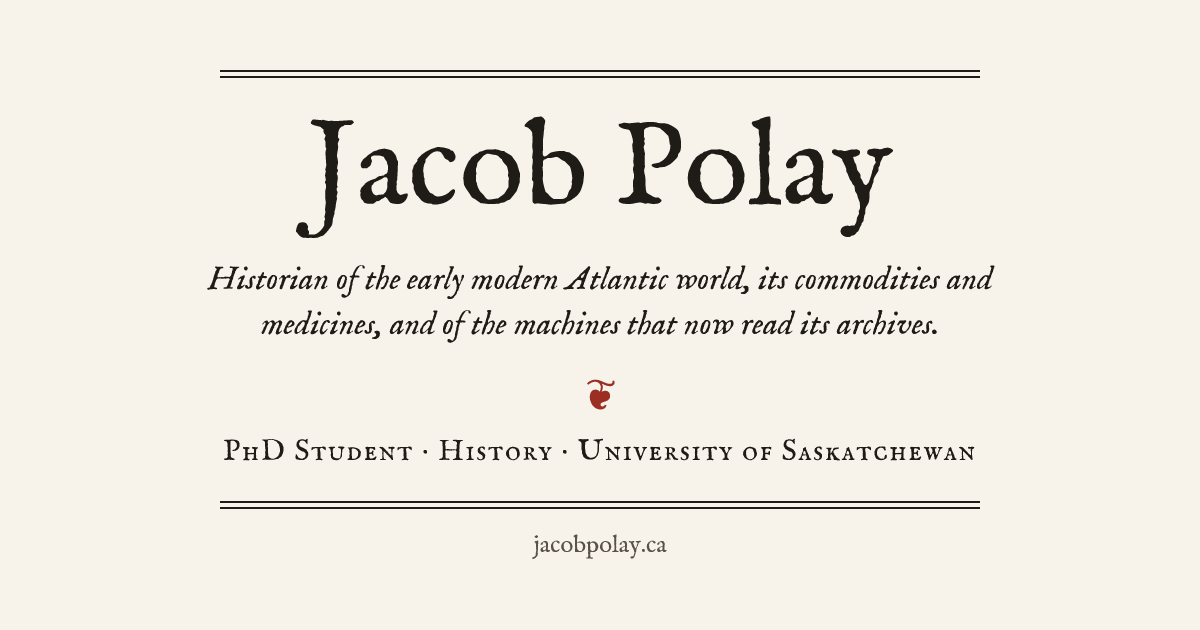
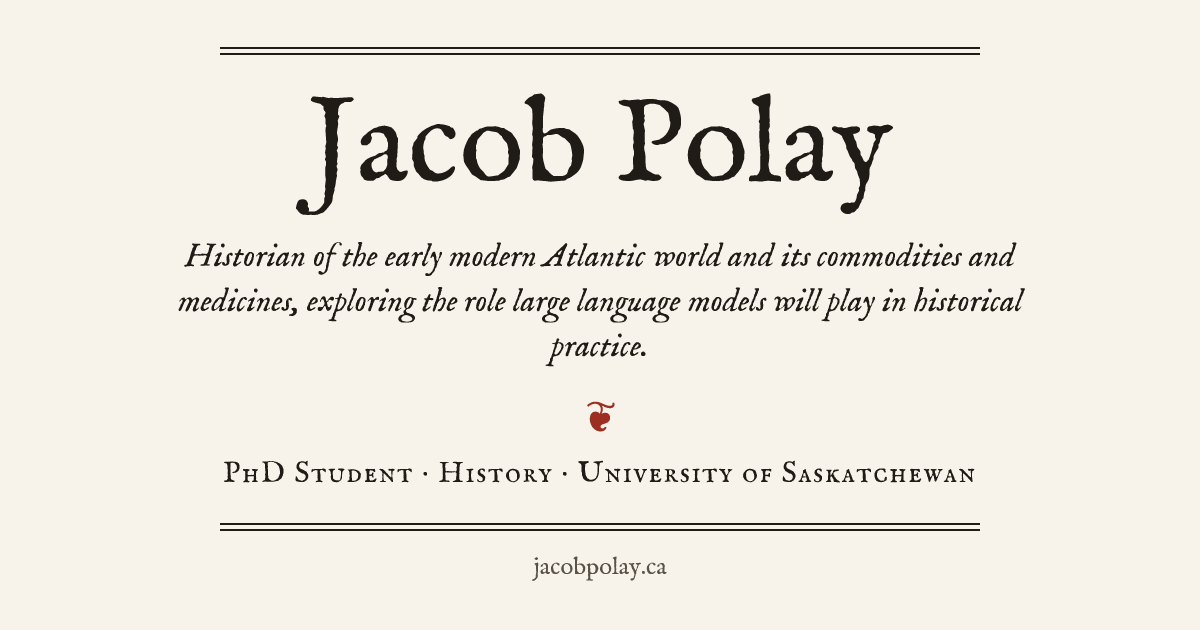
feat: new tagline, every AI and Collaboration post, real project names
- Tagline: Historian of the early modern Atlantic world and its commodities and
  medicines, exploring the role large language models will play in historical
  practice. Share card regenerated.
- The four AI and Collaboration posts (Active History, Sept-Oct 2026) as
  publications with lead and contributing authors; Writing and CV split
  publications from public scholarship; project pages list their posts;
  citations link their URL; BlogPosting structured data.
- Projects use their actual names: EarlyModernNER; Reading the Archive by
  Machine: An OCR Benchmark for Historians, 1612-1921; AI and Collaboration.
- Graph: a paper that is a project merges into the project node, and posts
  don't repeat edges to people their project already lists.

Changed region(s): [[0.1542, 0.0603, 0.8633, 0.573], [0.185, 0.6032, 0.8325, 0.9349]]

diff --git a/src/lib/graph.ts b/src/lib/graph.ts
@@ -15,7 +15,9 @@ const kebab = (s: string) =>
 
 /**
  * Turns the site's content into a graph of items (projects, publications, talks),
- * the people they share and the methods used by two or more projects.
+ * the people they share and the methods used by two or more projects. A publication with
+ * the same title as a project (a project that *is* a paper) is merged into the project's node, and
+ * an item related to a project doesn't get its own edge to people that project already lists.
  * Throws when a `related` id names an item that doesn't exist.
  */
 export function buildGraph(input: GraphInput, self = 'Jacob Polay'): Graph {
@@ -34,6 +36,17 @@ export function buildGraph(input: GraphInput, self = 'Jacob Polay'): Graph {
     })),
   ];
   const itemIds = new Set(items.map((i) => i.id));
+  const projectByTitle = new Map(input.projects.map((p) => [p.title, `project:${p.slug}`]));
+  const alias = new Map<string, string>();
+  for (const p of input.publications) {
+    const project = projectByTitle.get(p.title);
+    if (project) alias.set(`publication:${p.slug}`, project);
+  }
+  const resolve = (id: string) => alias.get(id) ?? id;
+  // People a project already lists don't also get an edge to each item related to that project.
+  const projectPeople = new Map(input.projects.map((p) => [`project:${p.slug}`, new Set(p.collaborators)]));
+  const carriedByProject = (related: string[], name: string) =>
+    related.some((r) => projectPeople.get(resolve(r))?.has(name));
 
   const edges = new Map<string, GraphEdge>();
   const connect = (a: string, b: string) => {
@@ -45,21 +58,23 @@ export function buildGraph(input: GraphInput, self = 'Jacob Polay'): Graph {
   const people = new Map<string, string>();
   const methodUse = new Map<string, { label: string; items: string[] }>();
   for (const item of items) {
+    const itemId = resolve(item.id);
     for (const name of item.people) {
       if (name === self) continue;
+      if (item.kind !== 'project' && carriedByProject(item.related, name)) continue;
       const id = `person:${kebab(name)}`;
       people.set(id, name);
-      connect(item.id, id);
+      connect(itemId, id);
     }
     for (const m of item.methods) {
       const id = `method:${kebab(m)}`;
       const use = methodUse.get(id) ?? { label: m, items: [] };
-      use.items.push(item.id);
+      use.items.push(itemId);
       methodUse.set(id, use);
     }
     for (const rel of item.related) {
       if (!itemIds.has(rel)) throw new Error(`Unknown related id "${rel}" in ${item.id}`);
-      connect(item.id, rel);
+      connect(itemId, resolve(rel));
     }
   }
 
@@ -71,7 +86,7 @@ export function buildGraph(input: GraphInput, self = 'Jacob Polay'): Graph {
   }
 
   const nodes: GraphNode[] = [
-    ...items.map(({ id, label, kind, href }) => ({ id, label, kind, href })),
+    ...items.filter((i) => !alias.has(i.id)).map(({ id, label, kind, href }) => ({ id, label, kind, href })),
     ...[...people].sort(([a], [b]) => a.localeCompare(b)).map(([id, label]) => ({ id, label, kind: 'person' as const })),
     ...methodNodes,
   ];
@@ -89,10 +104,10 @@ export function layoutGraph(
   const nodes: SimNode[] = g.nodes.map((n) => ({ ...n }));
   const links = g.edges.map((e) => ({ ...e }));
   forceSimulation(nodes)
-    .force('link', forceLink<SimNode, (typeof links)[number]>(links).id((n) => n.id).distance(100))
-    .force('charge', forceManyBody().strength(-260))
+    .force('link', forceLink<SimNode, (typeof links)[number]>(links).id((n) => n.id).distance(115))
+    .force('charge', forceManyBody().strength(-340))
     .force('center', forceCenter(width / 2, height / 2))
-    .force('collide', forceCollide(40))
+    .force('collide', forceCollide(52))
     .force('x', forceX(width / 2).strength(0.08))
     .force('y', forceY(height / 2).strength(0.12))
     .stop()

diff --git a/tests/unit/graph.test.ts b/tests/unit/graph.test.ts
@@ -21,7 +21,7 @@ describe('buildGraph', () => {
     const jims = g.nodes.filter((n) => n.id === 'person:jim-clifford');
     expect(jims).toHaveLength(1);
     const jimEdges = g.edges.filter((e) => e.source === 'person:jim-clifford' || e.target === 'person:jim-clifford');
-    expect(jimEdges).toHaveLength(4); // two projects, one publication, one talk
+    expect(jimEdges).toHaveLength(2); // the two projects; the paper and talk relate to a project that already lists him
   });
 
   it('excludes self', () => {
@@ -96,4 +96,37 @@ describe('wrapLabel', () => {
     expect(lines.join(' ')).not.toContain('…');
     expect('AI and Collaboration (Active History) and a very long tail of extra words'.startsWith(lines.join(' '))).toBe(true);
   });
+});
+
+describe('buildGraph merges a publication into the project of the same name', () => {
+  const g = buildGraph({
+    projects: [{ slug: 'ocr-benchmark', title: 'Reading the Archive by Machine', collaborators: ['Jim Clifford'], methods: [], related: [] }],
+    publications: [{ slug: 'reading', title: 'Reading the Archive by Machine', authors: ['Jim Clifford', 'Mark Humphries'], related: ['project:ocr-benchmark'] }],
+    talks: [{ slug: 't', title: 'Talk', presenters: [], related: ['publication:reading'] }],
+  });
+  it('keeps one node for the shared name', () =>
+    expect(g.nodes.filter((n) => n.label === 'Reading the Archive by Machine').map((n) => n.id)).toEqual(['project:ocr-benchmark']));
+  it('moves the publication edges onto the project', () => {
+    const keys = g.edges.map((e) => [e.source, e.target].sort().join(' '));
+    expect(keys).toContain('person:mark-humphries project:ocr-benchmark');
+    expect(keys).toContain('project:ocr-benchmark talk:t');
+    expect(keys.some((k) => k.includes('publication:reading'))).toBe(false);
+  });
+});
+
+describe('buildGraph skips person edges a related project already carries', () => {
+  const g = buildGraph({
+    projects: [{ slug: 'series', title: 'Series', collaborators: ['Chloë Farr', 'Jessica Jack'], methods: [], related: [] }],
+    publications: [
+      { slug: 'post', title: 'Post', authors: ['Chloë Farr', 'Jessica Jack', 'Sara Wilmshurst'], related: ['project:series'] },
+    ],
+    talks: [],
+  });
+  const keys = g.edges.map((e) => [e.source, e.target].sort().join(' '));
+  it('links the post to its project', () => expect(keys).toContain('project:series publication:post'));
+  it('does not link the post to people the project already lists', () => {
+    expect(keys).not.toContain('person:chloe-farr publication:post');
+    expect(keys).not.toContain('person:jessica-jack publication:post');
+  });
+  it('still links people the project does not list', () => expect(keys).toContain('person:sara-wilmshurst publication:post'));
 });

diff --git a/tests/e2e/writing.spec.ts b/tests/e2e/writing.spec.ts
@@ -6,19 +6,35 @@ const GARBLER = 'Polay, Jacob. "Circumventing the Garbler." Intersections 8, no.
 test('sections', async ({ page }) => {
   await page.goto('/writing');
   const pubs = page.locator('#publications li.entry');
-  await expect(pubs).toHaveCount(3);
   expect(await pubs.evaluateAll((els) => els.map((e) => e.id))).toEqual([
-    'archive-is-not-a-toy',
     'reading-the-archive-by-machine',
     'circumventing-the-garbler',
   ]);
+  const posts = page.locator('#public-scholarship li.entry');
+  expect(await posts.evaluateAll((els) => els.map((e) => e.id))).toEqual([
+    'not-just-farming',
+    'can-you-read-two-million-pages',
+    'stop-choosing-tools',
+    'ai-enabled-boom-in-document-transcription',
+    'archive-is-not-a-toy',
+  ]);
   await expect(page.locator('#public-scholarship')).toContainText('AI and Collaboration');
+  await expect(posts.locator('details.cite')).toHaveCount(5);
   const talks = page.locator('#talks li.entry');
   expect(await talks.evaluateAll((els) => els.map((e) => e.id))).toEqual([
     'fitting-machine-to-page',
     'reading-the-unreadable',
     'solving-ocr',
   ]);
+});
+
+test('series posts credit lead and contributing authors', async ({ page }) => {
+  await page.goto('/writing');
+  await expect(page.locator('#stop-choosing-tools .citation')).toContainText(
+    'Polay, Jacob, Chloë Farr, and Jessica Jack. "Stop Choosing Tools. Start Building Them." Active History, September 30, 2026.',
+  );
+  await expect(page.locator('#not-just-farming .citation')).toContainText('Jack, Jessica, Chloë Farr, and Jacob Polay.');
+  await expect(page.locator('#ai-enabled-boom-in-document-transcription a[href="https://activehistory.ca/blog/2026/09/23/ai-enabled-document-transcription/"]')).toHaveCount(1);
 });
 
 test.describe('without javascript', () => {

diff --git a/tests/e2e/meta.spec.ts b/tests/e2e/meta.spec.ts
@@ -40,21 +40,21 @@ test('json-ld person', async ({ page }) => {
   );
 });
 
-test('json-ld articles', async ({ page }) => {
+test('json-ld articles and posts', async ({ page }) => {
   await page.goto('/writing');
-  const articles = (await jsonLd(page)).filter((d) => d['@type'] === 'ScholarlyArticle');
-  expect(articles.map((a) => a.headline).sort()).toEqual([
+  const ld = await jsonLd(page);
+  expect(ld.filter((d) => d['@type'] === 'ScholarlyArticle').map((a) => a.headline).sort()).toEqual([
     'Circumventing the Garbler',
     'Reading the Archive by Machine: An OCR Benchmark for Historians, 1612–1921',
-    'The Archive is Not a Toy: The Hidden Problems of a "Vintage" AI',
   ]);
+  expect(ld.filter((d) => d['@type'] === 'BlogPosting')).toHaveLength(5);
 });
 
 test('feeds', async ({ request }) => {
   expect((await request.get('/sitemap-index.xml')).status()).toBe(200);
   const rss = await request.get('/rss.xml');
   expect(rss.status()).toBe(200);
-  expect(((await rss.text()).match(/<item>/g) ?? []).length).toBe(3);
+  expect(((await rss.text()).match(/<item>/g) ?? []).length).toBe(7);
 });
 
 test('favicons', async ({ page, request }) => {

diff --git a/tests/e2e/projects.spec.ts b/tests/e2e/projects.spec.ts
@@ -97,3 +97,25 @@ test('toggle still works when the projects module fails', async ({ page }) => {
   await expect(page.locator('.list-view')).toBeVisible();
   await expect(page.getByRole('button', { name: 'List' })).toHaveAttribute('aria-pressed', 'true');
 });
+
+test('projects use their actual names', async ({ page }) => {
+  await page.goto('/projects');
+  await page.getByRole('button', { name: 'List' }).click();
+  await expect(page.locator('.list-view .card h2')).toHaveText([
+    "The Digital Historian's Toolbox",
+    'EarlyModernNER',
+    'Reading the Archive by Machine: An OCR Benchmark for Historians, 1612–1921',
+    'AI and Collaboration',
+    'Footnotes on Film',
+  ]);
+});
+
+test('the AI and Collaboration page lists every post in the series', async ({ page }) => {
+  await page.goto('/projects/ai-and-collaboration');
+  for (const t of [
+    'The AI-Enabled Boom in Document Transcription',
+    'Stop Choosing Tools. Start Building Them.',
+    'Can You Read Two Million Pages? An LLM Can Help.',
+    'Not Just Farming: How an LLM Helped Me Study Saskatchewan',
+  ]) await expect(page.locator('.series-posts')).toContainText(t);
+});

diff --git a/src/lib/cite.ts b/src/lib/cite.ts
@@ -23,7 +23,7 @@ function link(p: PublicationData): string | undefined {
   return p.doi ? `https://doi.org/${p.doi}` : p.url;
 }
 
-/** A Chicago (notes-bibliography) bibliography entry. Plain text unless html is set, which italicizes the venue. */
+/** A Chicago (notes-bibliography) bibliography entry. Plain text unless html is set, which italicizes the venue and links the URL. */
 export function chicago(p: PublicationData, opts: { html?: boolean } = {}): string {
   const esc = opts.html ? escapeHtml : (s: string) => s;
   const venue = opts.html ? `<i>${esc(p.venue)}</i>` : p.venue;
@@ -41,7 +41,8 @@ export function chicago(p: PublicationData, opts: { html?: boolean } = {}): stri
       break;
   }
   const url = link(p);
-  return `${esc(endSentence(authorList(p)))} "${esc(title)}" ${where}${url ? ` ${esc(url)}.` : ''}`;
+  const shownUrl = url && (opts.html ? `<a href="${esc(url)}">${esc(url)}</a>` : url);
+  return `${esc(endSentence(authorList(p)))} "${esc(title)}" ${where}${shownUrl ? ` ${shownUrl}.` : ''}`;
 }
 
 const ascii = (s: string) => s.normalize('NFD').replace(/[^a-zA-Z]/g, '').toLowerCase();

diff --git a/tests/unit/cite.test.ts b/tests/unit/cite.test.ts
@@ -35,6 +35,10 @@ describe('chicago', () => {
     ));
   it('italicizes the venue in html mode', () =>
     expect(chicago(garbler, { html: true })).toBe('Polay, Jacob. "Circumventing the Garbler." <i>Intersections</i> 8, no. 1 (2025): 28.'));
+  it('links the URL in html mode', () =>
+    expect(chicago(toy, { html: true })).toMatch(
+      / <a href="https:\/\/activehistory\.ca\/blog\/2026\/07\/13\/the-archive-is-not-a-toy-the-hidden-problems-of-a-vintage-ai\/">https:\/\/activehistory\.ca\/blog\/2026\/07\/13\/the-archive-is-not-a-toy-the-hidden-problems-of-a-vintage-ai\/<\/a>\.$/,
+    ));
   it('escapes html in html mode', () =>
     expect(chicago({ ...garbler, title: 'Tools & <Tricks>' }, { html: true })).toContain('"Tools &amp; &lt;Tricks&gt;."'));
   it('adds no period after a title ending in ?', () =>

diff --git a/tests/e2e/pages.spec.ts b/tests/e2e/pages.spec.ts
@@ -36,7 +36,8 @@ test('cv', async ({ page, request }) => {
   await expect(edu).toContainText('Master of Arts, History');
   await expect(edu).toContainText('Loud Yet Invisible: A Humanist-Designed Pipeline for Unlocking the Early Modern Archive');
   await expect(edu).toContainText('Bachelor of Arts, First Class Honours, History');
-  await expect(page.locator('#publications li')).toHaveCount(3);
+  await expect(page.locator('#publications li')).toHaveCount(2);
+  await expect(page.locator('#public-scholarship li')).toHaveCount(5);
   const talks = page.locator('#presentations li');
   await expect(talks).toHaveCount(3);
   await expect(talks.first()).toContainText('Fitting Machine to Page');

diff --git a/tests/e2e/helpers/site.ts b/tests/e2e/helpers/site.ts
@@ -16,7 +16,7 @@ export const PROFILES = [
   'https://github.com/polayj',
 ];
 export const TAGLINE =
-  'Historian of the early modern Atlantic world, its commodities and medicines, and of the machines that now read its archives.';
+  'Historian of the early modern Atlantic world and its commodities and medicines, exploring the role large language models will play in historical practice.';
 
 /** Makes the given Web Storage throw on every access, as in locked-down private windows. */
 export const blockStorage = (kind: 'localStorage' | 'sessionStorage') => `

diff --git a/src/site.ts b/src/site.ts
@@ -9,7 +9,7 @@ export const site = {
   department: 'Department of History',
   university: 'University of Saskatchewan',
   tagline:
-    'Historian of the early modern Atlantic world, its commodities and medicines, and of the machines that now read its archives.',
+    'Historian of the early modern Atlantic world and its commodities and medicines, exploring the role large language models will play in historical practice.',
   url: 'https://jacobpolay.ca',
   email: 'jacob.polay@usask.ca',
   orcid: 'https://orcid.org/0009-0001-9217-5531',

diff --git a/src/content/projects/ai-and-collaboration.md b/src/content/projects/ai-and-collaboration.md
@@ -1,8 +1,8 @@
 ---
-title: "AI and Collaboration (Active History)"
-summary: "A collaborative blog series explaining the technologies behind computational history in short, standalone posts."
+title: "AI and Collaboration"
+summary: "A collaborative series on Active History exploring how AI can support collaboration in historical research, and the technical and ethical questions it raises."
 status: ongoing
-role: Co-author; lead on the knowledge graph and named-entity recognition posts
+role: Co-initiator; lead author of two posts
 order: 4
 links:
   - label: The series on Active History
@@ -11,10 +11,6 @@ collaborators: [Chloë Farr, Jessica Jack]
 methods: [Critical AI, Knowledge graphs, Named-entity recognition, OCR]
 related: [publication:archive-is-not-a-toy]
 ---
-The series grew out of our critique of Talkie-1930, a "vintage" language model. Where Talkie extracted knowledge, the series models sharing it: short, standalone posts explaining the technologies behind computational history, each written collaboratively.
+*AI and Collaboration* is a series on Active History, initiated by Chloë Farr, Jessica Jack and me and edited by Sara Wilmshurst. It explores how AI can facilitate collaboration in historical research while weighing the technological and ethical challenges that users of large language models must consider.
 
-- Knowledge graphs, linked open data and GraphRAG (Jacob, lead)
-- Named-entity recognition: "Stop Choosing Tools. Start Building Them." (Jacob, lead)
-- OCR (Chloë Farr, lead; Jacob contributing)
-- Applications (Jessica Jack, lead)
-- Collaboration and wrap-up
+It grew out of our critique of Talkie-1930, a "vintage" language model. Where Talkie extracted knowledge, the series models sharing it: each post has a lead author and is written with the other two.

diff --git a/src/content/projects/ocr-benchmark.md b/src/content/projects/ocr-benchmark.md
@@ -1,6 +1,6 @@
 ---
-title: "OCR benchmark for historians"
-summary: "A benchmark of how well current OCR reads historical print from 1612 to 1921, and what its errors mean for historical research."
+title: "Reading the Archive by Machine: An OCR Benchmark for Historians, 1612–1921"
+summary: "A benchmark of how well current OCR reads historical documents from 1612 to 1921, and what its errors mean for historical research."
 status: complete
 role: Co-author
 order: 3
@@ -11,4 +11,4 @@ collaborators: [Jim Clifford, Jessica Jack, Mark Humphries, Lianne C. Leddy]
 methods: [OCR]
 related: [publication:reading-the-archive-by-machine, talk:reading-the-unreadable, talk:solving-ocr, talk:fitting-machine-to-page]
 ---
-With Jim Clifford, Jessica Jack, Mark Humphries and Lianne C. Leddy, I benchmarked optical character recognition on historical documents from 1612 to 1921. The results appear as *Reading the Archive by Machine: An OCR Benchmark for Historians, 1612–1921*, in Working Papers in Critical Search.
+With Jim Clifford, Jessica Jack, Mark Humphries and Lianne C. Leddy, I benchmarked optical character recognition on historical documents from 1612 to 1921. The results are published as a working paper in Working Papers in Critical Search, no. 4 (2026).
